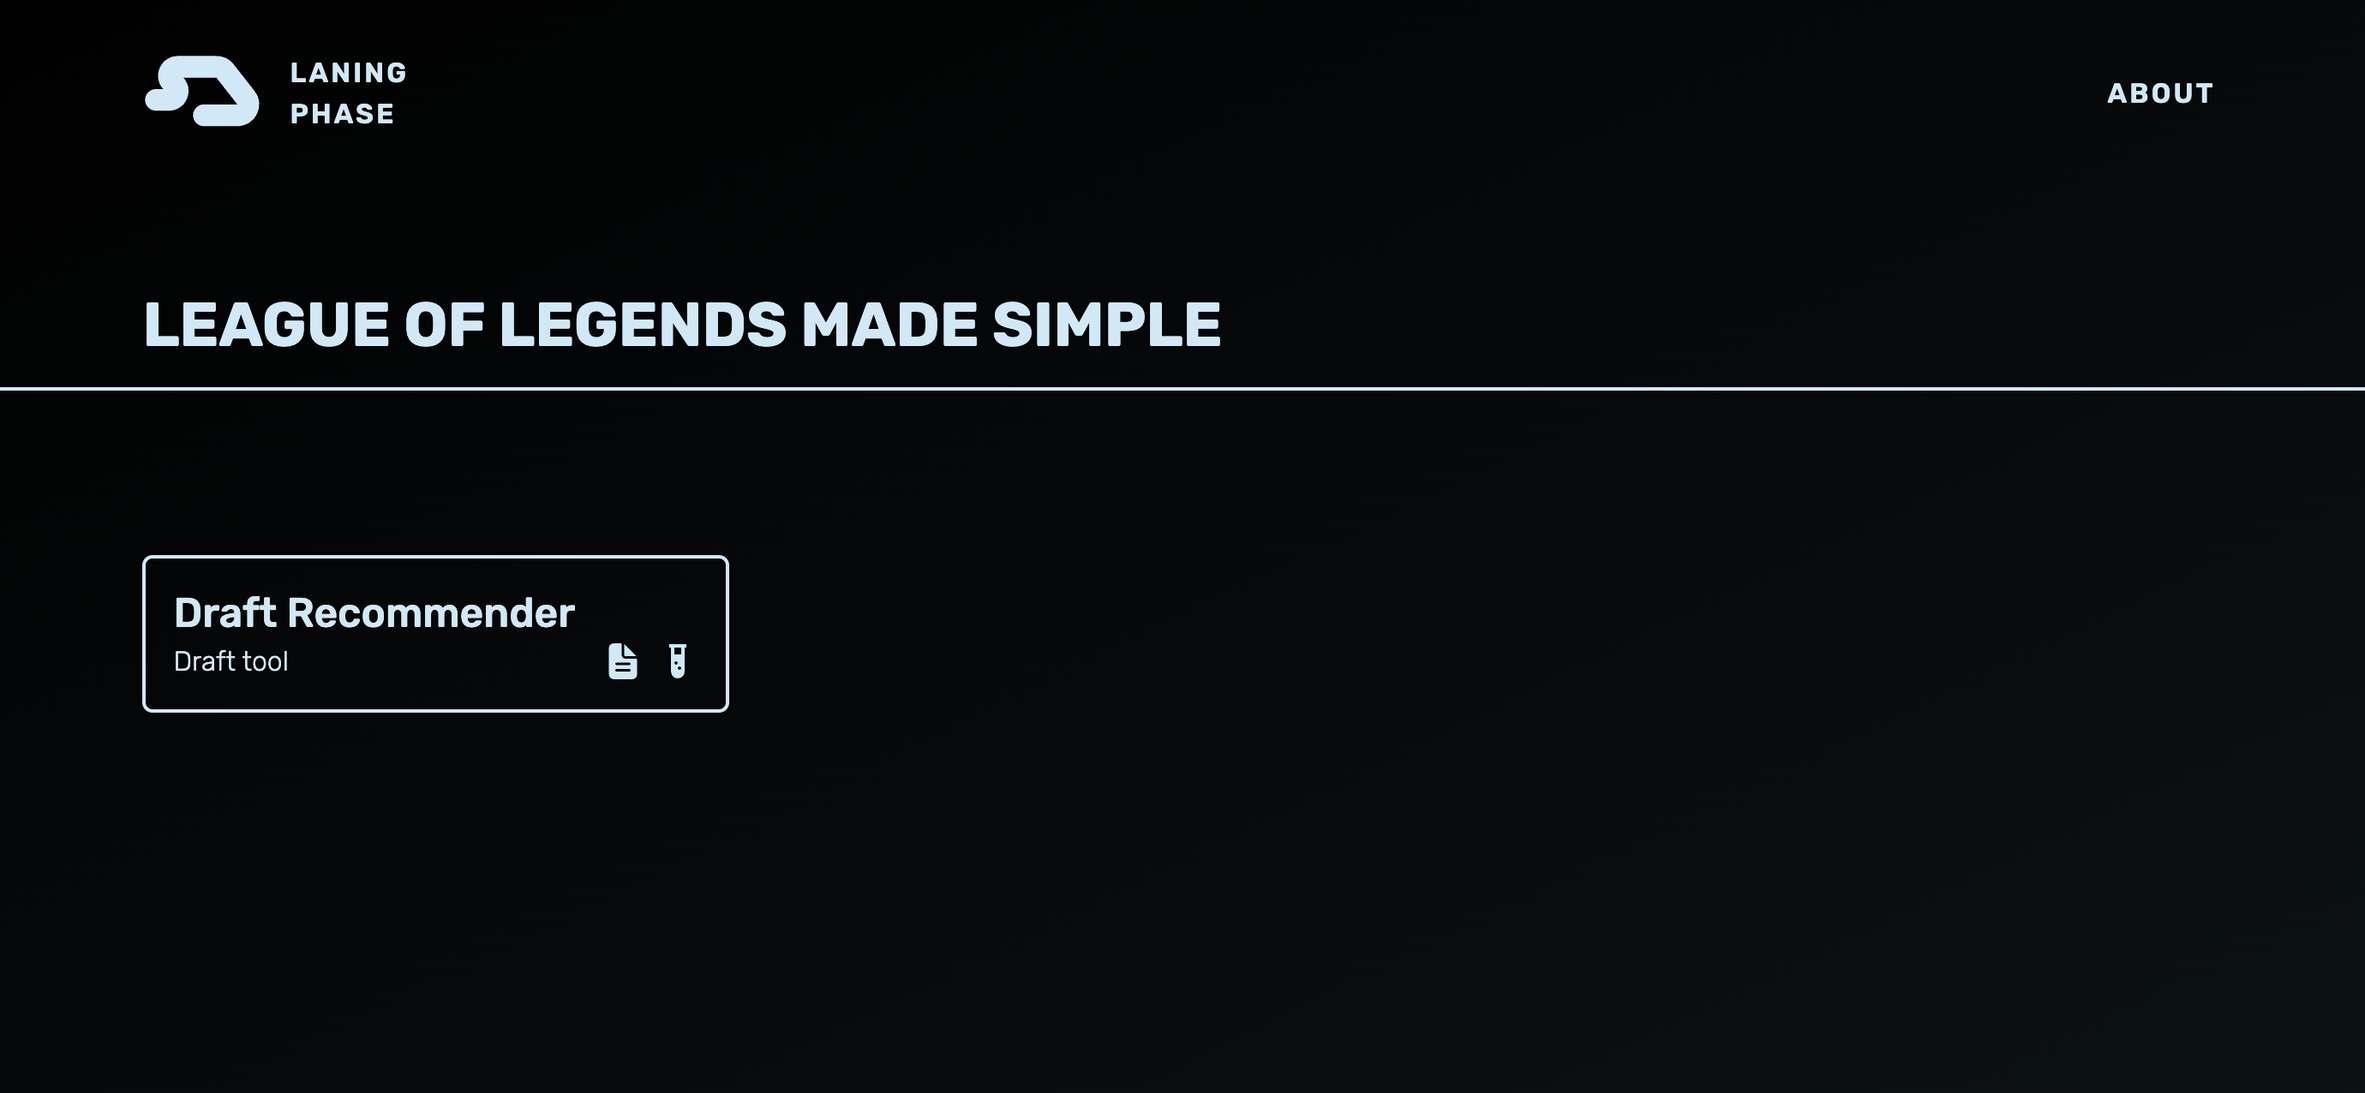
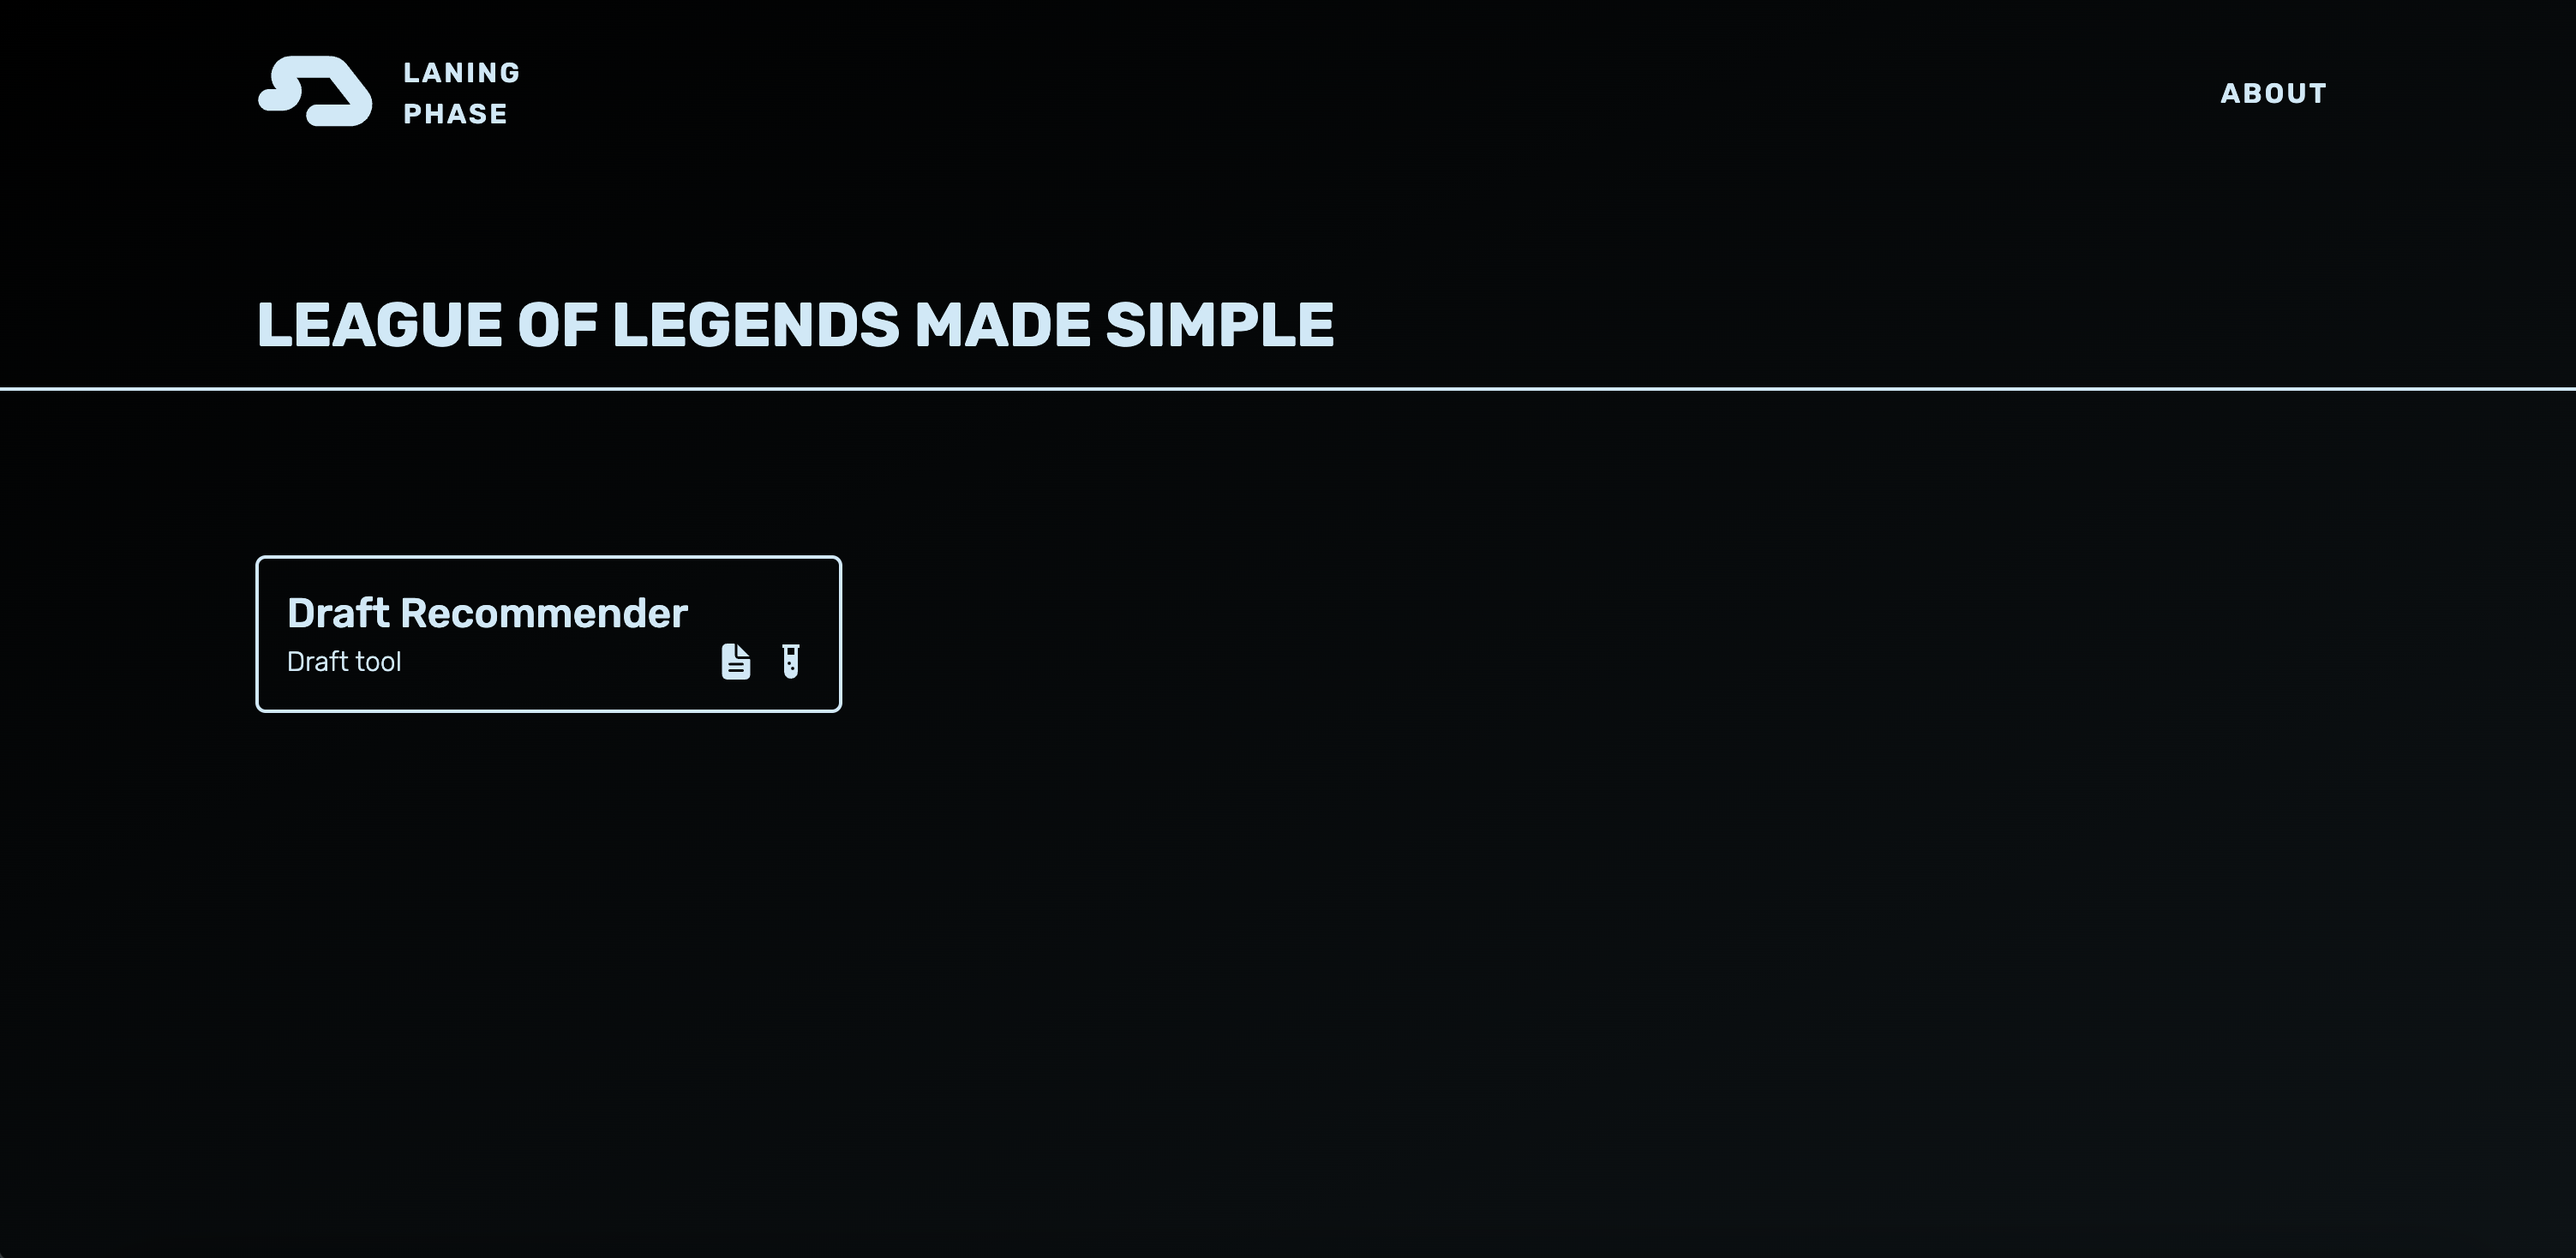
update: 3d titles sizing

diff --git a/components/TitleText3d.js b/components/TitleText3d.js
@@ -6,7 +6,7 @@ import { useRef } from "react"
 
 
 
-export function TitleText3d ({ position, rotate=true ,children }) {
+export function TitleText3d ({ position, rotate=true, scale_divider=10 ,children }) {
     const { size } = useThree()
     // const ref = useRef()
 
@@ -44,7 +44,7 @@ export function TitleText3d ({ position, rotate=true ,children }) {
                 height={0.5}
                 lineHeight={0.5}
                 letterSpacing={0.06}
-                size={(size.width/100)/10}
+                size={(size.width/100)/scale_divider}
                 font={"/Excon_Black.json"}
             >
                 {children}

diff --git a/pages/projects/[slug].js b/pages/projects/[slug].js
@@ -86,7 +86,7 @@ export default function Project ({ project, project_info, translations }) {
                 </motion.div>
                 <AnimatedTitle
                     text={project_info['title'].toUpperCase()}
-                    className={`text-6xl md:text-8xl font-bold font-ExconBold`}
+                    className={`text-6xl md:text-8xl font-bold font-ExconBold flex self-center justify-self-center`}
                     text_color={project_info['title_color']}
                 />
                 <AnimatedText

diff --git a/pages/about.js b/pages/about.js
@@ -51,7 +51,7 @@ function Scene({ translations }) {
         <div className='flex w-full h-full md:h-[60dvh]'>
             <Canvas shadows dpr={[1, 1.5]} gl={{ antialias: false }} camera={{ position: [0, 0, 14], fov: 17.5, near: 1, far: 20 }} className='-z-2 '>
                 <Lighting />
-                <TitleText3d position={[0, 0, 0]}>
+                <TitleText3d position={[0, 0, 0]} scale_divider={10}>
                     {translations.section_about_title}
                 </TitleText3d>
             </Canvas>

diff --git a/pages/index.js b/pages/index.js
@@ -48,7 +48,7 @@ function Scene({ translations }) {
         <div className='flex w-screen h-[50dvh]'>
             <Canvas shadows orthographic camera={{ position: [0, 0, 100], zoom: 100 }} className='-z-2'>
                 <Lighting />
-                <TitleText3d position={[0, 0, 0]} rotate={false}>
+                <TitleText3d position={[0, 0, 0]} rotate={false} scale_divider={12}>
                     {translations.section_projects_title}
                 </TitleText3d>
             </Canvas>
